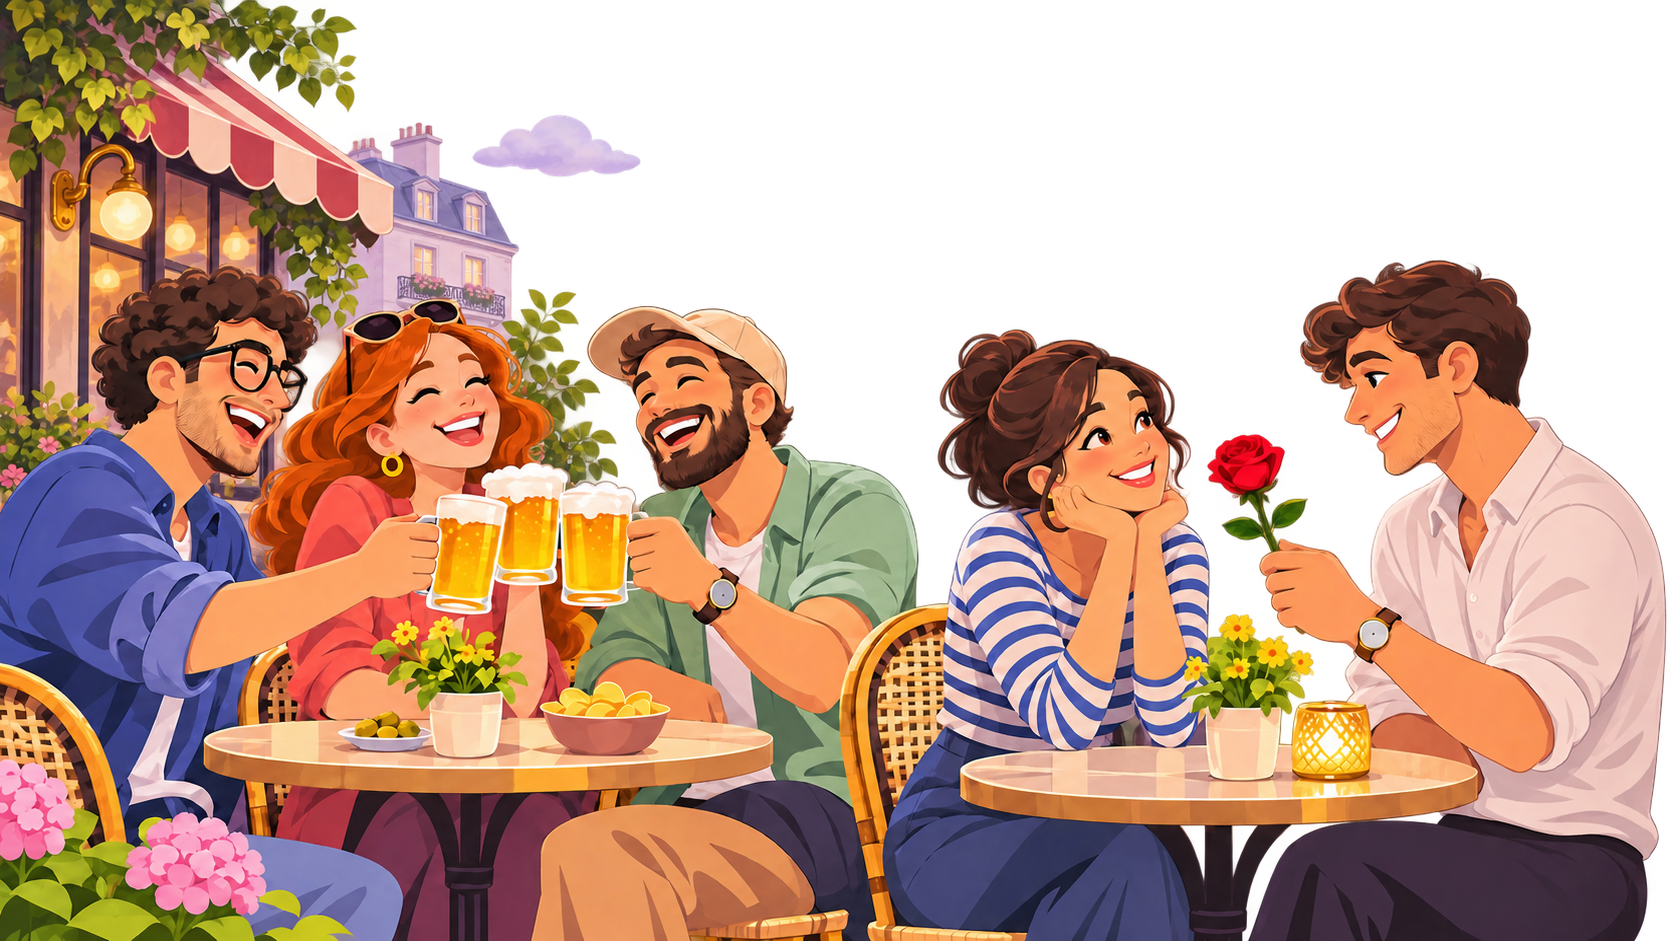
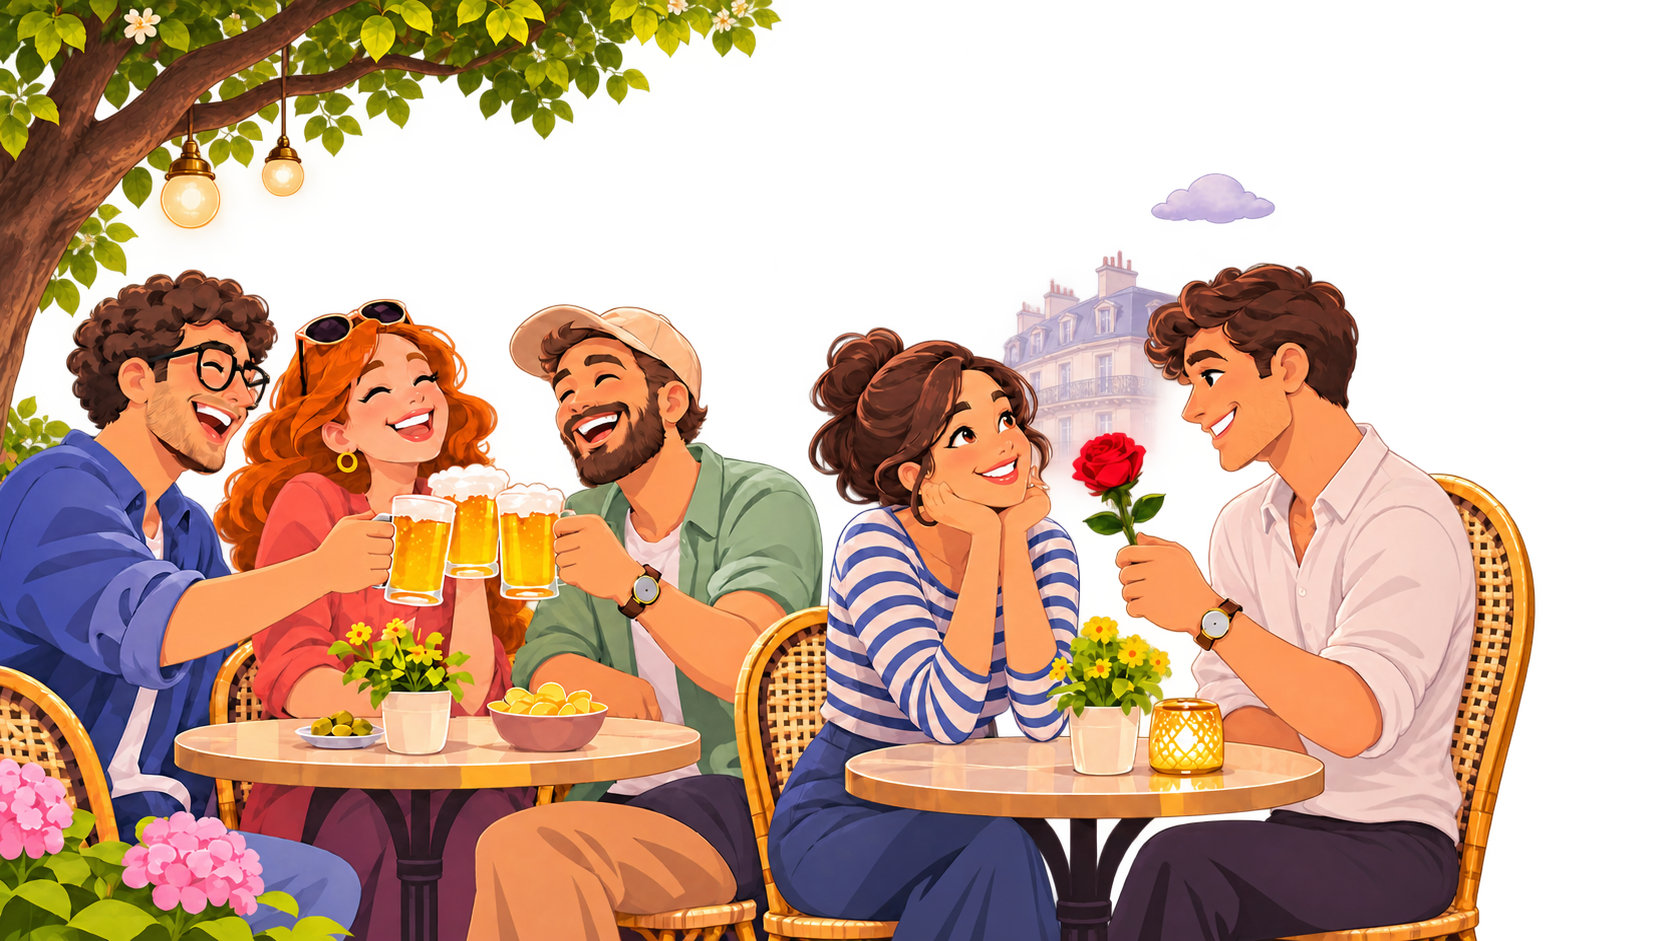
[UI] Affiner la scène du bandeau et les icônes de navigation

diff --git a/src/app/shared/components/app-shell/app-shell.ts b/src/app/shared/components/app-shell/app-shell.ts
@@ -4,15 +4,7 @@ import { t } from '../../utils/i18n';
 
 @Component({
   selector: 'app-nav-icon',
-  template: `<svg width="24" height="24" viewBox="0 0 24 24" fill="none" stroke="currentColor" stroke-width="1.9" stroke-linecap="round" stroke-linejoin="round" aria-hidden="true">
-    @switch (name) {
-      @case ('home') { <path d="m3 10 9-7 9 7v10a1 1 0 0 1-1 1h-5v-7H9v7H4a1 1 0 0 1-1-1z" /> }
-      @case ('groups') { <circle cx="9" cy="8" r="3" /><path d="M3 20v-2a6 6 0 0 1 12 0v2zM17 5a3 3 0 0 1 0 6m1 3a5 5 0 0 1 3 5v1" /> }
-      @case ('expenses') { <path d="M6 3h12v18l-3-2-3 2-3-2-3 2zM9 8h6M9 12h6" /> }
-      @case ('statistics') { <path d="M3 21h18M5 17h3v4H5zM11 11h3v10h-3zM17 5h3v16h-3z" /> }
-      @case ('account') { <circle cx="12" cy="8" r="4" /><path d="M4 21a8 8 0 0 1 16 0z" /> }
-    }
-  </svg>`,
+  template: `<svg width="24" height="24" viewBox="0 0 24 24" fill="none" stroke="currentColor" stroke-width="2.2" stroke-linecap="round" stroke-linejoin="round" aria-hidden="true"><use [attr.href]="'/illustrations/lucide-actions.svg#' + (name === 'home' ? 'house' : name === 'groups' ? 'users-round' : name === 'expenses' ? 'receipt-text' : name === 'statistics' ? 'chart-no-axes-column' : 'user-round')" /></svg>`,
 })
 class NavIcon { @Input({ required: true }) name = ''; }
 

diff --git a/src/app/secured/dashboard/dashboard.component.html b/src/app/secured/dashboard/dashboard.component.html
@@ -18,7 +18,7 @@
           <div class="relative min-h-44 px-5 pb-20 pt-5 sm:hidden">
             <div class="relative z-10 max-w-[54%]"><p class="text-xl font-black leading-tight">{{ t('dashboardHello') }}{{ app.firstName() ? ' ' + app.firstName() : '' }} !</p><p class="mt-1 text-xs text-white/90">{{ t('dashboardIntro') }}</p><p class="mt-3 text-xs font-bold">{{ group.name }} · {{ group.currency }}</p></div>
             <img class="pointer-events-none absolute inset-0 h-full w-full origin-right scale-[1.6] object-cover object-right opacity-95" src="/illustrations/cafe-hero-mobile.webp" alt="" />
-            <div class="pointer-events-none absolute inset-0 bg-gradient-to-r from-pop-primary via-pop-primary/50 to-transparent"></div>
+            <div class="pointer-events-none absolute inset-0 bg-pop-primary/45"></div>
           </div>
           <div class="hidden min-h-64 grid-cols-[52%_48%] sm:grid sm:overflow-hidden sm:rounded-[1.8rem]">
             <div class="relative overflow-hidden bg-pop-primary"><img class="absolute inset-0 h-full w-full object-cover object-bottom" src="/illustrations/cafe-hero-foreground.png" alt="" /></div>
